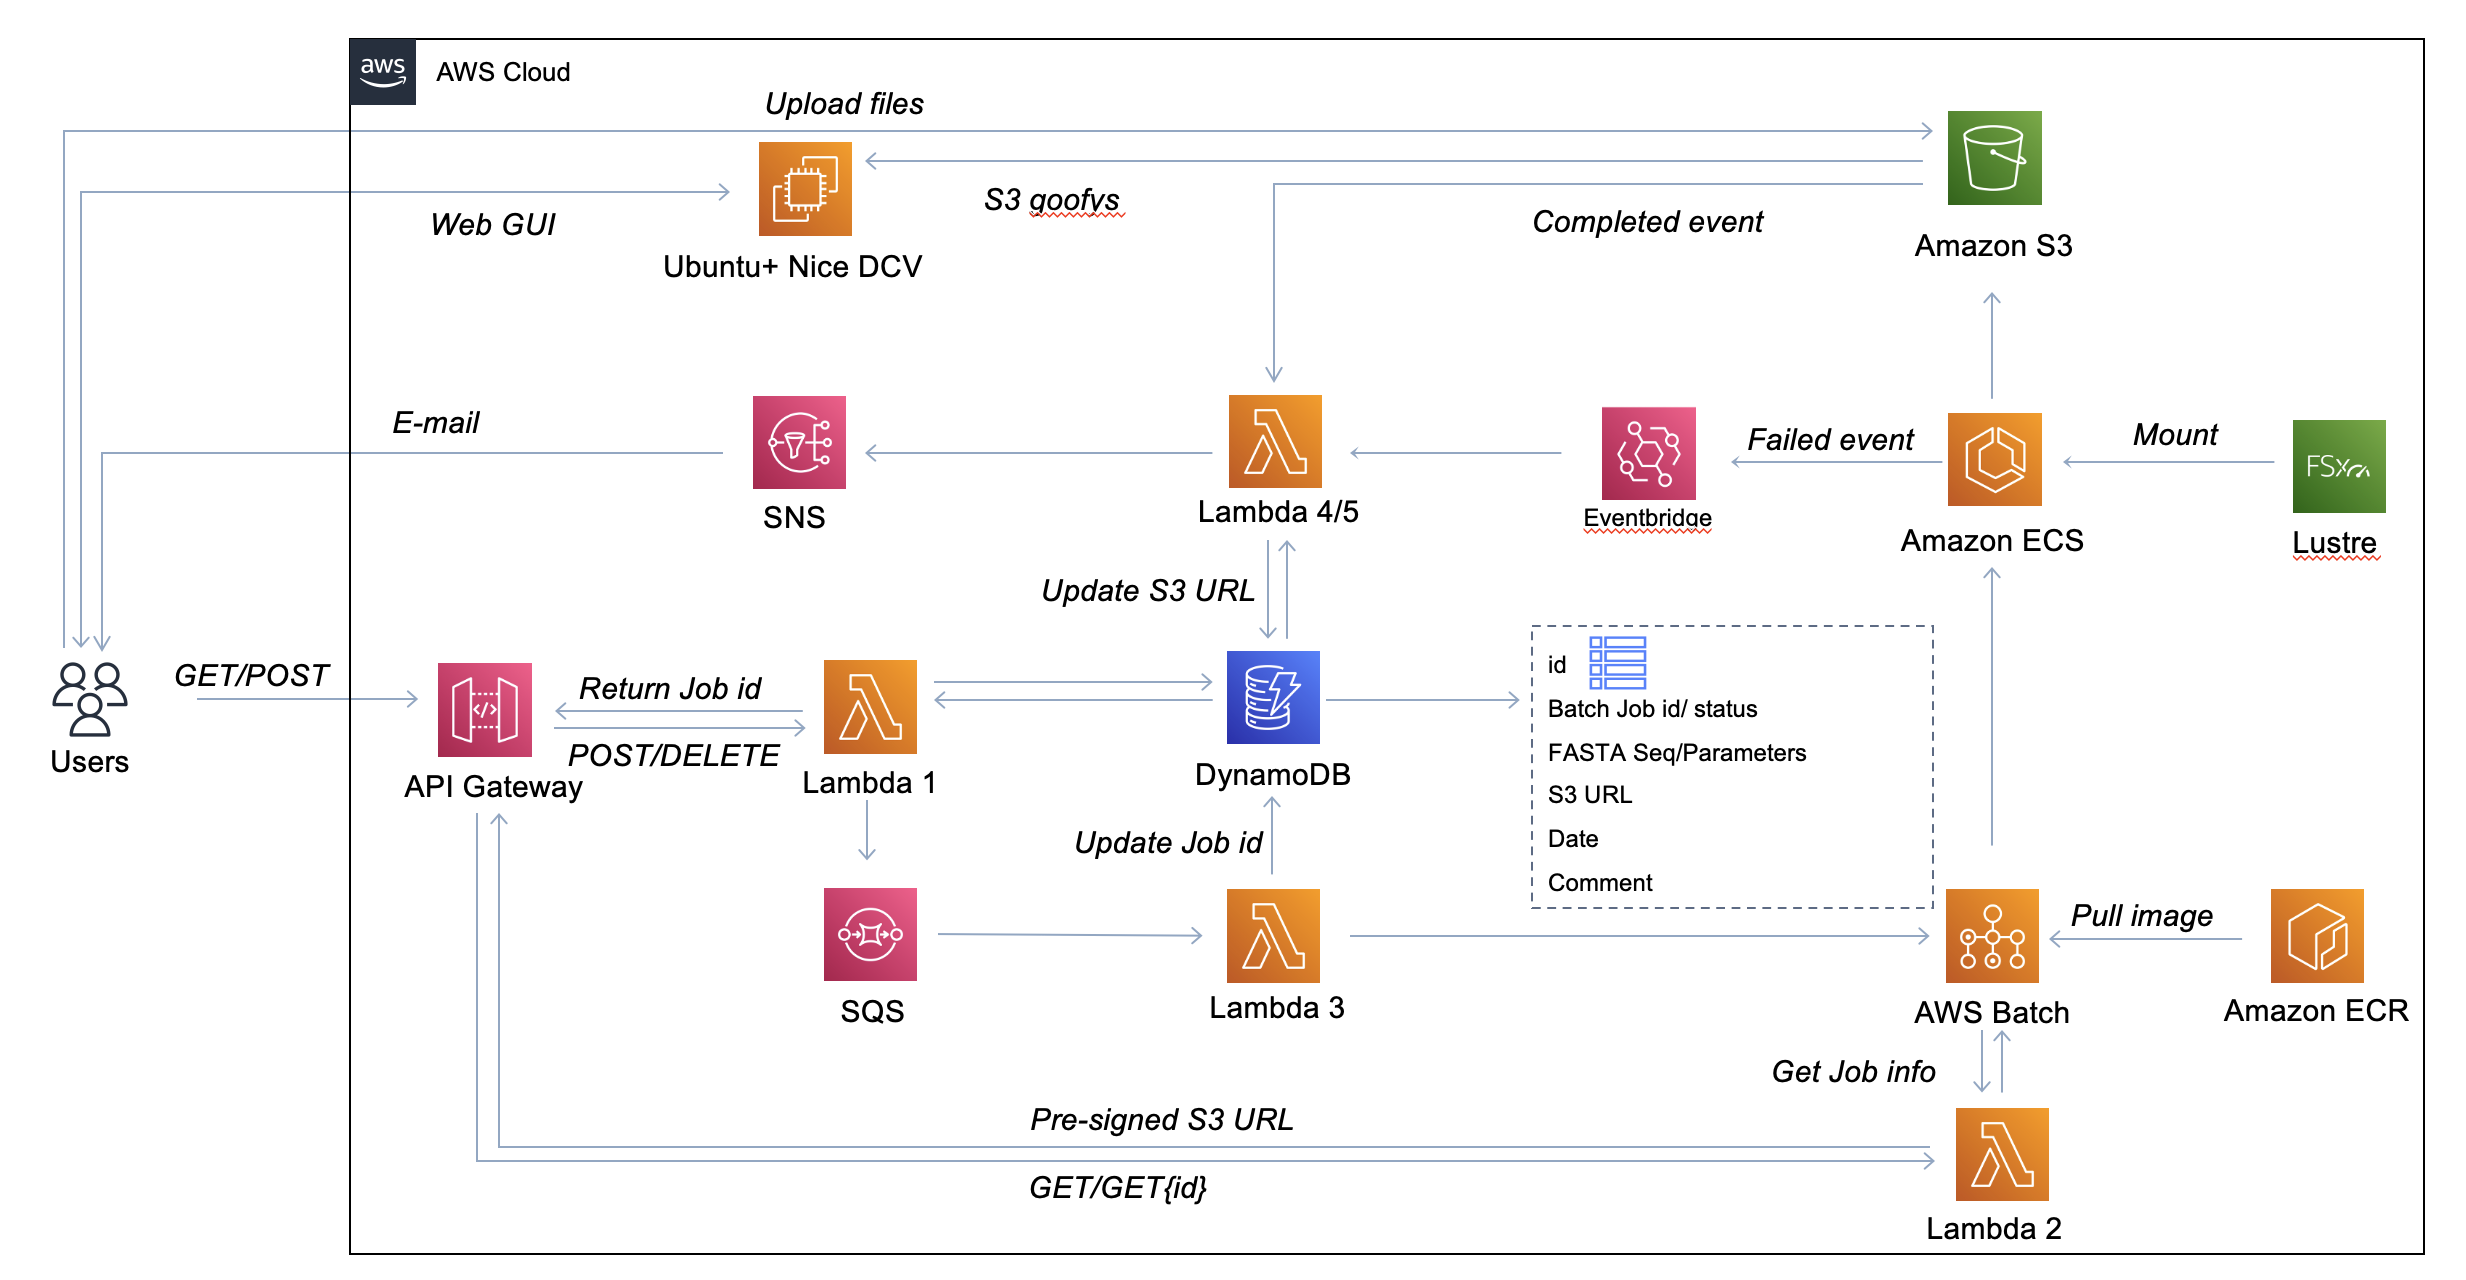
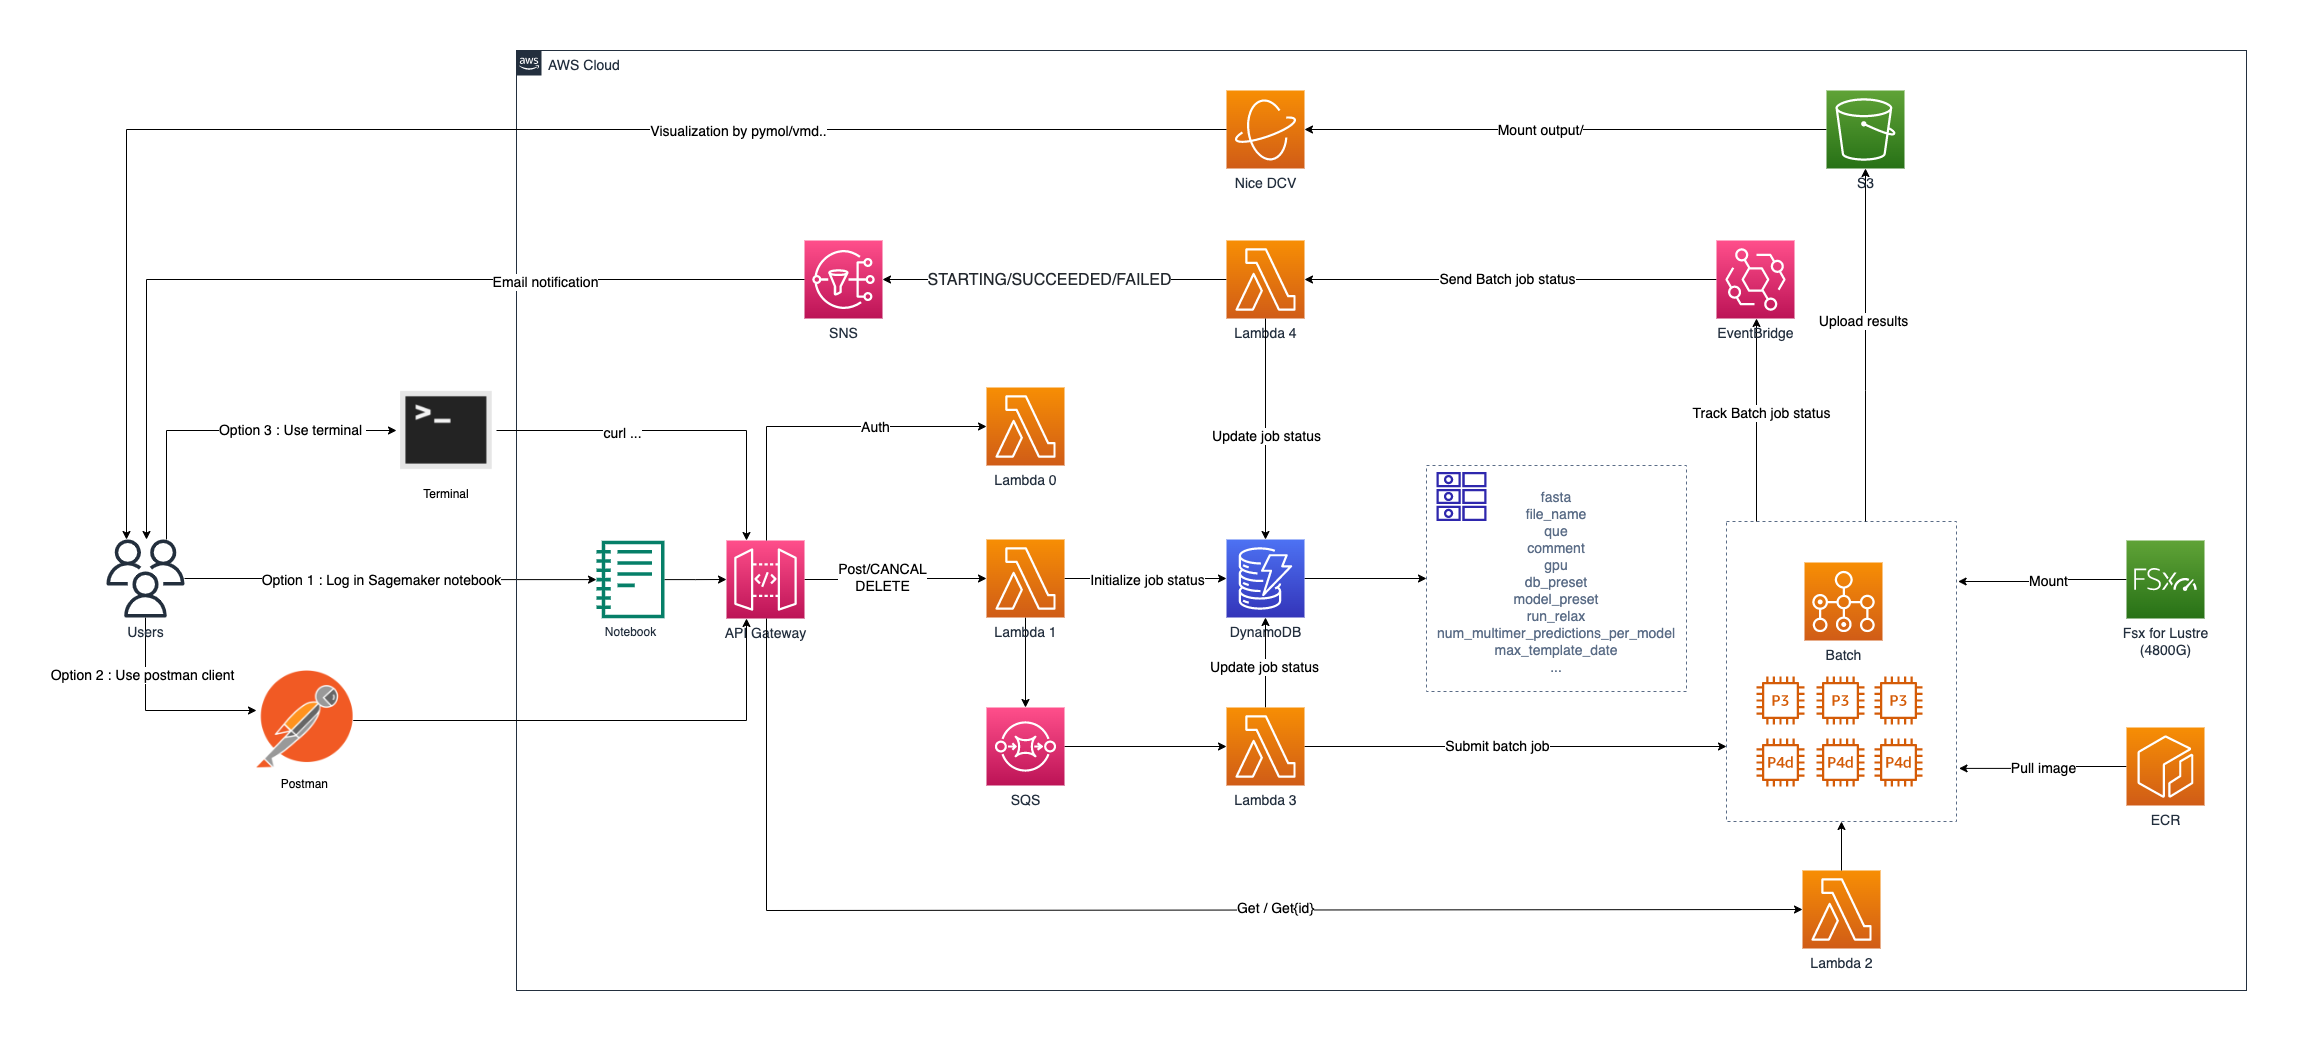
Update readme and architecture diagram.

diff --git a/README.md b/README.md
@@ -1,4 +1,4 @@
-# For security reasons, if you want to deploy this solution, please submit your 12 digit AWS account ID and deployment region  through Github issue. https://docs.aws.amazon.com/AmazonS3/latest/userguide/finding-canonical-user-id.html
+# For security reasons, if you want to deploy this solution, please submit your 12 digit AWS account ID and deployment region  through Github issue. 
 # Current support Alphafold Version : 2.2.0
 Releases : https://github.com/deepmind/alphafold/releases/tag/v2.2.0
 # Alphafold2 on AWS Deploy Guide:
@@ -266,6 +266,11 @@ Enjoy!
     original version.
 
 ## Changelog
+
+### 04/26/2022
+* You have to require s3 permissions first to deploy this solution.
+* Update readme.
+* Update architecture diagram.
 
 ### 04/25/2022
 * Use sagemaker notebook to submit job
